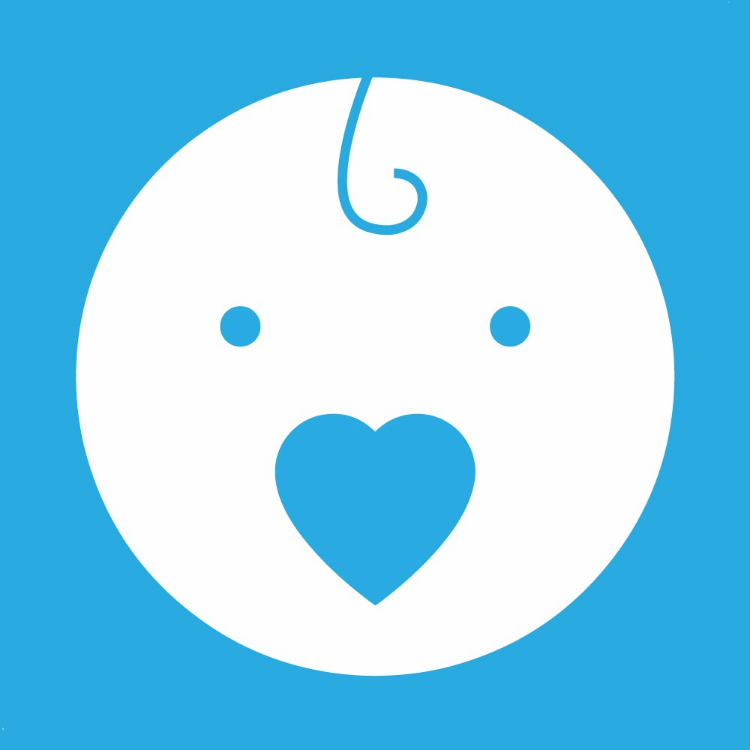
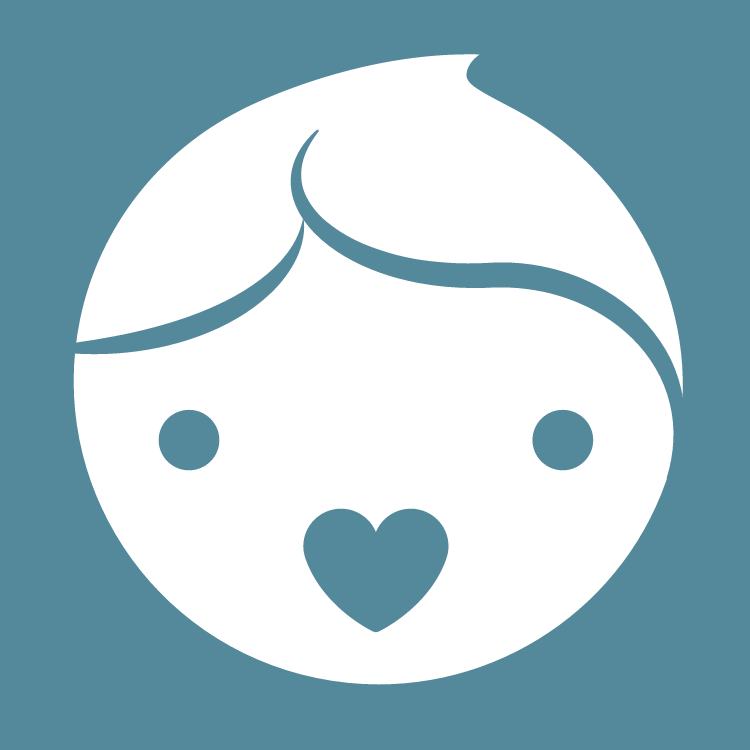
Fixes issues #6 & #7

diff --git a/src/pages/word-list/word-list.html b/src/pages/word-list/word-list.html
@@ -22,7 +22,7 @@
   <div class='loading'><ion-spinner></ion-spinner></div>
 </ng-template>
 <ion-content>
-    <ion-searchbar *ngIf="WordListSegment != 'MyWords'" animated='true' tapable placeholder="Search Items" showCancelButton cancelButtonText="Clear" (ionInput)="filterItemsSorted($event)"></ion-searchbar>
+    
   <div *ngIf='!searching'>
     <div padding>
       <ion-segment [(ngModel)]="WordListSegment" (ionChange)="segmentChanged($event)">
@@ -34,6 +34,7 @@
         </ion-segment-button>
       </ion-segment>
     </div>
+    <ion-searchbar *ngIf="WordListSegment != 'MyWords'" animated='true' tapable placeholder="Search Items" showCancelButton cancelButtonText="Clear" (ionInput)="filterItemsSorted($event)"></ion-searchbar>
     <div [ngSwitch]="WordListSegment">
       <div *ngSwitchCase="'AllWords'">
         <div *ngIf='savedWordList && wordList;else loading'>
@@ -65,7 +66,7 @@
               <ion-note item-end>Added <br> {{savedWordList[myWord].date}}</ion-note>
             </ion-item>
             <ion-item-options *ngIf='savedWordList[myWord]'>
-                <button ion-button color="danger" (click)="removeFromSavedWordList(myWord, item)">
+                <button ion-button color="primary" (click)="removeFromSavedWordList(myWord, item)">
                   <ion-icon name="trash"></ion-icon>
                   Remove
                 </button>

diff --git a/src/pages/tutorial/tutorial.ts b/src/pages/tutorial/tutorial.ts
@@ -1,0 +1,54 @@
+import { Component, ViewChild } from '@angular/core';
+
+import { MenuController, NavController, Slides } from 'ionic-angular';
+
+import { Storage } from '@ionic/storage';
+
+import { TabsControllerPage } from '../tabs-controller/tabs-controller';
+
+import { FileServiceProvider } from "../../providers/file-service/file-service";
+
+@Component({
+  selector: 'page-tutorial',
+  templateUrl: 'tutorial.html'
+})
+
+export class TutorialPage {
+  showSkip = true;
+
+	@ViewChild('slides') slides: Slides;
+
+  constructor(
+    public navCtrl: NavController,
+    public menu: MenuController,
+    public storage: Storage,
+    public fs: FileServiceProvider
+  ) { }
+
+  startApp() {
+    this.storage.get('currentWeek').then((data) => {
+      this.navCtrl.setRoot(TabsControllerPage, data); 
+      this.fs.setActivePage('weeklyPage'+data);
+      this.storage.set('hasSeenTutorial', 'true');
+    })
+  }
+
+  onSlideChangeStart(slider: Slides) {
+    this.showSkip = !slider.isEnd();
+  }
+
+	ionViewWillEnter() {
+		this.slides.update();
+	}
+
+  ionViewDidEnter() {
+    // the root left menu should be disabled on the tutorial page
+    this.menu.enable(false);
+  }
+
+  ionViewDidLeave() {
+    // enable the root left menu when leaving the tutorial page
+    this.menu.enable(true);
+  }
+
+}

diff --git a/src/app/app.component.ts b/src/app/app.component.ts
@@ -6,6 +6,7 @@ import { SplashScreen } from '@ionic-native/splash-screen';
 
 
 import { HomePage } from '../pages/home/home';
+import { TutorialPage } from '../pages/tutorial/tutorial';
 import { TabsControllerPage } from '../pages/tabs-controller/tabs-controller';
 import { TenWeekProgramPage } from '../pages/ten-week-program/ten-week-program'
 import { KeyWordSignsPage } from '../pages/key-word-signs/key-word-signs'
@@ -48,8 +49,8 @@ export class KeysPipe implements PipeTransform {
 
 export class Talkable {
   @ViewChild(Nav) nav: Nav;
-
-  rootPage: any = HomePage;
+  
+  rootPage: any;
   activePage: any;
   pageReady: boolean = false;
   // weeklyPages: PageInterface[] = [
@@ -76,7 +77,17 @@ export class Talkable {
               public fs: FileServiceProvider,
               public menuCtrl: MenuController,
               public settings: Settings) {
-    this.initializeApp();
+                // Check if the user has already seen the tutorial
+    this.storage.get('hasSeenTutorial')
+    .then((hasSeenTutorial) => {
+      if (hasSeenTutorial) {
+        this.rootPage = HomePage;
+      } else {
+        this.rootPage = TutorialPage;
+      }
+      this.initializeApp();
+    });
+    
     storage.set('currentWeek', 1).then(success => {
       this.fs.setCurrentWeek(1);
     });

diff --git a/src/pages/home/home.ts b/src/pages/home/home.ts
@@ -2,6 +2,8 @@ import { NavController } from 'ionic-angular';
 import { Component } from '@angular/core';
 import { Storage } from '@ionic/storage';
 import { TabsControllerPage } from "../tabs-controller/tabs-controller";
+import { WordListPage } from "../word-list/word-list";
+import { KeyWordSignsPage } from "../key-word-signs/key-word-signs";
 import { FileServiceProvider } from "../../providers/file-service/file-service";
 @Component({
   selector: 'page-home',
@@ -19,13 +21,19 @@ constructor(public navCtrl: NavController, public storage: Storage, public fs: F
 //Take the user to the week they are up to
 userProgress(){
   //Set to Week1Page until user progress can be restored from saved data
-  this.storage.get('currentWeek').then((data) => {
-    this.navCtrl.setRoot(TabsControllerPage, data); 
-    this.fs.setActivePage('weeklyPage'+data);
-  })
- 
-  }
-
+    this.storage.get('currentWeek').then((data) => {
+      this.navCtrl.setRoot(TabsControllerPage, data); 
+      this.fs.setActivePage('weeklyPage'+data);
+    })
+ }
+ gotToKeyWordSigns(){
+  this.navCtrl.setRoot(KeyWordSignsPage); 
+  this.fs.setActivePage('KeyWordSignsPage');
+ }
+ goToWordTracker(){
+  this.navCtrl.setRoot(WordListPage); 
+  this.fs.setActivePage('WordListPage');
+ }
 
 
 }

diff --git a/src/pages/tutorial/tutorial.html b/src/pages/tutorial/tutorial.html
@@ -1,0 +1,38 @@
+<ion-header no-border>
+  <ion-navbar>
+    <ion-buttons end *ngIf="showSkip">
+      <button ion-button (click)="startApp()" color="primary">Skip</button>
+    </ion-buttons>
+  </ion-navbar>
+</ion-header>
+
+<ion-content no-bounce>
+  <ion-slides #slides (ionSlideWillChange)="onSlideChangeStart($event)" pager>
+
+    <ion-slide>
+      <h2 class="slide-title">
+        Welcome to <b>Talkable</b>
+      </h2>
+      <p>
+        The talkable app helps your childs speech
+      </p>
+    </ion-slide>
+
+    <ion-slide>
+
+      <h2 class="slide-title" >What is Talkable?</h2>
+      <p>
+        Talkable is
+      </p>
+    </ion-slide>
+
+    <ion-slide>
+      <h2 class="slide-title">Ready to Start?</h2>
+      <button ion-button icon-right large clear (click)="startApp()">
+        Continue
+        <ion-icon name="arrow-forward"></ion-icon>
+      </button>
+    </ion-slide>
+
+  </ion-slides>
+</ion-content>

diff --git a/src/app/app.module.ts b/src/app/app.module.ts
@@ -18,6 +18,7 @@ import { ChunksPipe, ObjectPipe, KeysPipe } from './app.component'
 
 import { TenWeekProgramPage } from '../pages/ten-week-program/ten-week-program';
 import { TabsControllerPage } from '../pages/tabs-controller/tabs-controller';
+import { TutorialPage } from '../pages//tutorial/tutorial';
 import { VideosPage } from '../pages/videos/videos'
 import { StoryTimePage } from '../pages/story-time/story-time'
 import { HintsTipsPage } from '../pages/hints-tips/hints-tips'
@@ -47,6 +48,7 @@ export function provideSettings(storage: Storage) {
     TenWeekProgramPage,
     TabsControllerPage,
     VideosPage,
+    TutorialPage,
     StoryTimePage,
     HintsTipsPage,
     KeyWordSignsPage,
@@ -75,6 +77,7 @@ export function provideSettings(storage: Storage) {
     VideosPage,
     StoryTimePage,
     HintsTipsPage,
+    TutorialPage,
     KeyWordSignsPage,
     WordListPage,
     WeeklySignsPage,

diff --git a/src/pages/videos/videos.ts b/src/pages/videos/videos.ts
@@ -51,13 +51,13 @@ export class VideosPage {
   }
   onFullscreen(e) {
     //TODO: Handle tab bar overlay
-    let tabbar:any;
-    tabbar = document.getElementsByClassName('tabbar')[0];
-    if (tabbar.style.visibility === 'hidden') {
-        tabbar.style.visibility = 'visible';
-    } else {
-        tabbar.style.visibility = 'hidden';
-    }
+    // let tabbar:any;
+    // tabbar = document.getElementsByClassName('tabbar')[0];
+    // if (tabbar.style.visibility === 'hidden') {
+    //     tabbar.style.visibility = 'visible';
+    // } else {
+    //     tabbar.style.visibility = 'hidden';
+    // }
     //alert('Fullscreen ')
   }
   watched(video, event){

diff --git a/src/pages/tutorial/tutorial.scss b/src/pages/tutorial/tutorial.scss
@@ -1,0 +1,37 @@
+
+page-tutorial {
+  .toolbar-background {
+    background: transparent;
+    border-color: transparent;
+  }
+
+  .slide-zoom {
+    height: 100%;
+  }
+
+  .slide-title {
+    margin-top: 2.8rem;
+  }
+
+  .slide-image {
+    max-height: 50%;
+    max-width: 60%;
+    margin: 36px 0;
+  }
+
+  b {
+    font-weight: 500;
+  }
+
+  p {
+    padding: 0 40px;
+    font-size: 14px;
+    line-height: 1.5;
+    color: #60646B;
+
+    b {
+      color: #000000;
+    }
+  }
+
+}

diff --git a/src/app/app.html b/src/app/app.html
@@ -6,7 +6,8 @@
     </ion-header> -->
     <!-- <ion-content class="outer-content"> -->
     <ion-content>
-        <img src="assets/icon/logo_header.jpg" alt="Logo Header">
+        <img src="assets/icon/logo_header.svg" style="width:100%" alt="Logo Header">
+        <br>
         <ion-list>
              <!-- <ion-list-header>
                 10 Week Program

diff --git a/src/pages/home/home.html b/src/pages/home/home.html
@@ -12,4 +12,7 @@
 
     <p>Pick up where you left off?</p>
     <button ion-button (click)="userProgress()">Let's Go!</button>
+    <br>
+    <button ion-button (click)="gotToKeyWordSigns()">Key Word Signs</button>
+    <button ion-button (click)="goToWordTracker()">Word Tracker</button>
 </ion-content>
